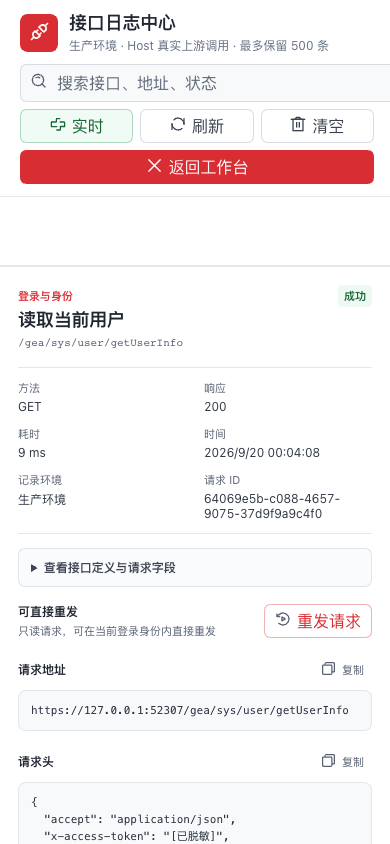
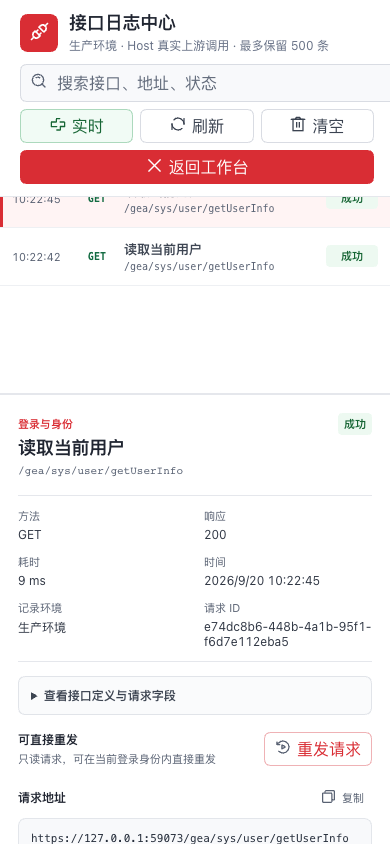
release: gea 0.0.64 repair shell sidebar selectors for company dsh
The shell located its sidebar mount points through DSH CSS-module class
names that carry a build hash. The desktop client ships a different DSH
build, so every selector missed and the business navigation, sidebar mode
tabs and inbox quick action never rendered there.

Select the same nodes without the hash prefix and keep a data-slot
fallback, then verify on the client DSH 0.1.6 combination.

diff --git a/src/client.tsx b/src/client.tsx
@@ -482,8 +482,8 @@ export function apply(ctx: Context): void {
     }, [business]);
     useEffect(() => {
       const renameNewSession = () => {
-        const button = document.querySelector<HTMLButtonElement>(".hHd-Xa_newSession");
-        const label = button?.querySelector<HTMLElement>(".hHd-Xa_newSessionLabel");
+        const button = document.querySelector<HTMLButtonElement>("button[class*='_newSession']");
+        const label = button?.querySelector<HTMLElement>("[class*='_newSessionLabel']");
         if (!button || !label) return;
         if (label.textContent !== "AI工作台") label.textContent = "AI工作台";
         if (button.getAttribute("aria-label") !== "AI工作台") button.setAttribute("aria-label", "AI工作台");
@@ -495,8 +495,12 @@ export function apply(ctx: Context): void {
     }, []);
     useEffect(() => {
       const findRegions = () => {
-        setRegion(document.querySelector<HTMLElement>(".hHd-Xa_regionArea"));
-        setLogoRow(document.querySelector<HTMLElement>(".hHd-Xa_logoRow"));
+        setRegion(
+          document.querySelector<HTMLElement>("[class*='_regionArea']") ??
+            document.querySelector<HTMLElement>('[data-slot="sidebar.workspaces"]')?.parentElement ??
+            null,
+        );
+        setLogoRow(document.querySelector<HTMLElement>("[class*='_logoRow']"));
         setConversationHero(document.querySelector<HTMLElement>(
           ".AppFrame_rightbarCol [data-slot='main.conversation'] [data-phase='hero']",
         ));

diff --git a/src/client/shell.css b/src/client/shell.css
@@ -13,13 +13,13 @@
   background: #f8f9fb;
 }
 /* Keep the native DSH workspace list below the business navigation. */
-.hHd-Xa_regionArea:has(.gea-business-navigation) {
+[class*="_regionArea"]:has(.gea-business-navigation) {
   display: flex !important;
   flex-direction: column;
   min-height: 0;
   overflow: hidden;
 }
-.hHd-Xa_regionArea:has(.gea-business-navigation) > [data-slot="sidebar.workspaces"] {
+[class*="_regionArea"]:has(.gea-business-navigation) > [data-slot="sidebar.workspaces"] {
   display: block !important;
   order: 2;
   flex: 1 1 auto;
@@ -74,17 +74,17 @@
   border-radius: 0;
   box-shadow: none;
 }
-.hHd-Xa_regionArea:has(.gea-business-menu-panel) {
+[class*="_regionArea"]:has(.gea-business-menu-panel) {
   position: relative;
   overflow: hidden;
 }
-.hHd-Xa_regionArea:has(.gea-business-menu-panel) > [data-slot="sidebar.workspaces"] {
+[class*="_regionArea"]:has(.gea-business-menu-panel) > [data-slot="sidebar.workspaces"] {
   display: block !important;
   height: 36px;
   min-height: 36px;
   overflow: hidden;
 }
-.hHd-Xa_logoRow:has(.gea-inbox-quick-action) {
+[class*="_logoRow"]:has(.gea-inbox-quick-action) {
   position: relative;
 }
 .gea-inbox-quick-action {
@@ -112,7 +112,7 @@
 [data-sidebar-collapsed] .gea-inbox-quick-action {
   display: none;
 }
-.hHd-Xa_regionArea:has(.gea-sidebar-mode-tabs) {
+[class*="_regionArea"]:has(.gea-sidebar-mode-tabs) {
   position: relative;
 }
 .gea-sidebar-mode-tabs {

diff --git a/docs/releases/0.0.64.md b/docs/releases/0.0.64.md
@@ -1,0 +1,8 @@
+# GEA 0.0.64
+
+修复桌面客户端（公司版 DSH 0.1.6）上左侧业务导航、「工作区 / 功能区」切换和业务代办入口不渲染的问题。外壳此前用 DSH 侧栏的构建哈希类名定位挂载点，客户端构建的哈希前缀不同，导致全部选择器失配。
+
+- 侧栏区域、品牌行和「AI工作台」按钮改用与构建哈希无关的选择器，并保留 `data-slot` 兜底。
+- 已在客户端 DSH 0.1.6 组合上验证业务导航、模式切换和业务代办按钮恢复渲染。
+
+仅发布 GEA 插件，不重打桌面客户端。
